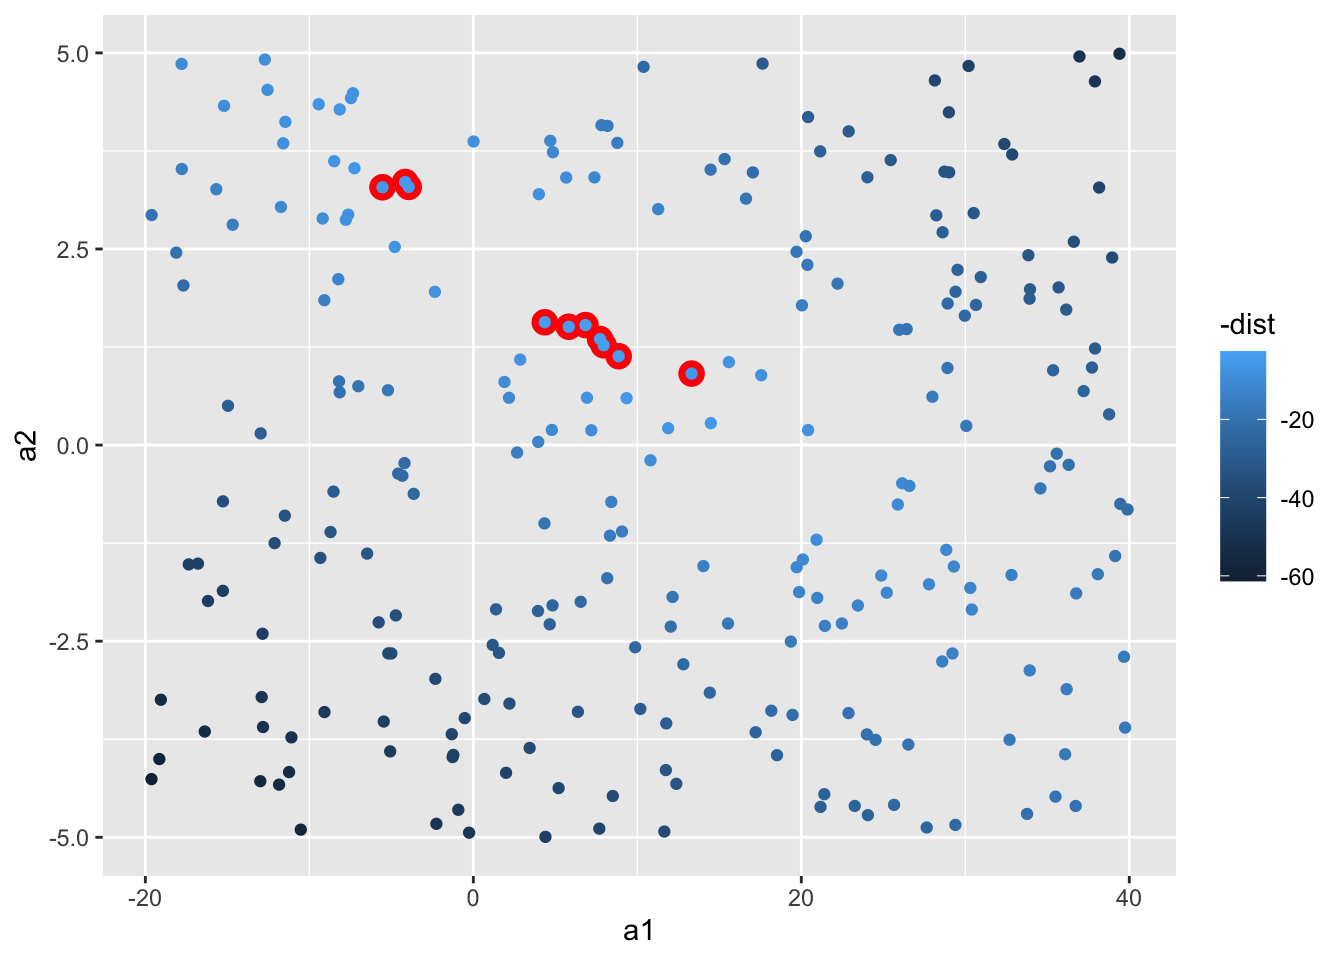
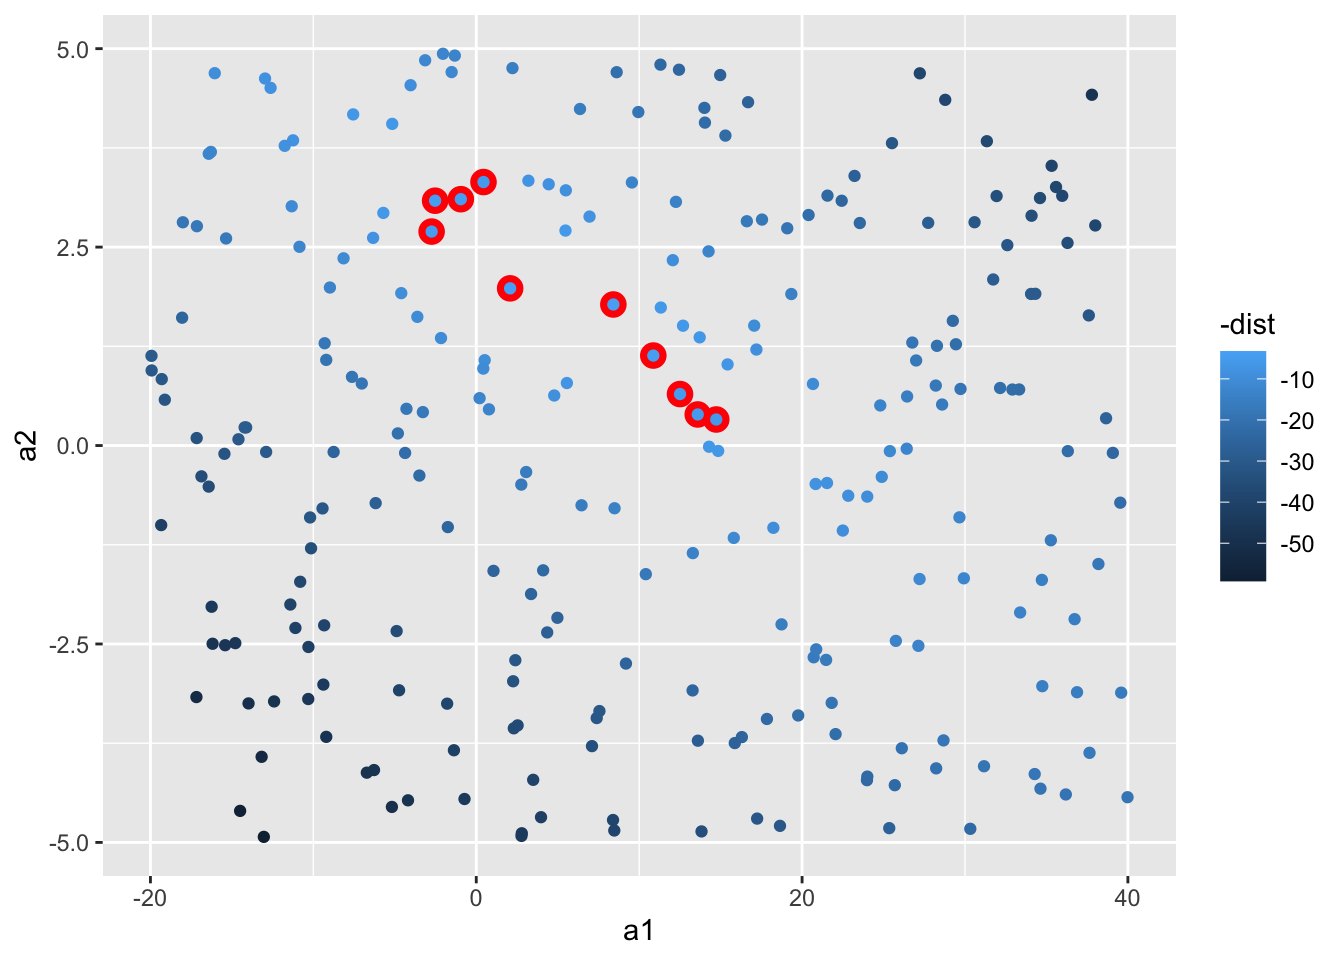
Fix corrupted model-building.qmd and re-render website
- Restore model-building.qmd from git history
- Successfully render all files including Session 4 redesign
- Website ready for GitHub Pages deployment

diff --git a/docs/index.html b/docs/index.html
@@ -207,14 +207,9 @@ ul.task-list li input[type="checkbox"] {
 <section id="schedule" class="level2">
 <h2 data-anchor-id="schedule">Schedule</h2>
 <div class="cell">
-<div class="cell-output cell-output-stdout">
-<pre><code>
-The downloaded binary packages are in
-    /var/folders/gy/v0zyw2jj1w30391yybd9qjv80000gp/T//RtmpeGUvse/downloaded_packages</code></pre>
-</div>
 <div class="cell-output-display">
-<div class="reactable html-widget html-fill-item" id="htmlwidget-539978b3662e2ace8b5c" style="width:auto;height:auto;"></div>
-<script type="application/json" data-for="htmlwidget-539978b3662e2ace8b5c">{"x":{"tag":{"name":"Reactable","attribs":{"data":{"Session":["R Basics","Functions and Data Wrangling","Data Visualization","Introduction to Models","Bulk RNA-seq","scRNA-seq Part 1","scRNA-seq Part 2","Final Project Presentations"],"Date":["2-Sep","4-Sep","9-Sep","11-Sep","3-Oct","10-Oct","17-Oct","21-Nov"],"Time":["9:00am - 11:00am","9:00am - 11:00am","9:00am - 11:00am","9:00am - 11:00am","10:30am - 12:30pm","10:30am - 12:30pm","10:30am - 12:30pm","10:30am - 1:00pm"]},"columns":[{"id":"Session","name":"Session","type":"character"},{"id":"Date","name":"Date","type":"character"},{"id":"Time","name":"Time","type":"character"}],"sortable":false,"theme":{"color":"#212529","backgroundColor":"#ffffff","borderColor":"#ffffff","borderWidth":"1px","stripedColor":"#ecf0f1","highlightColor":"#ecf0f1","cellPadding":6,"tableStyle":{"fontSize":14},"headerStyle":{"borderWidth":"2px","backgroundColor":"#2c3e50","color":"#ffffff","transitionDuration":"0.5s","&:hover[aria-sort]":{"color":"#1cbc9c"},"&[aria-sort='ascending'], &[aria-sort='descending']":{"color":"#1cbc9c"},"fontSize":15},"groupHeaderStyle":{"&:not(:empty)":{"color":"#212529","fontSize":15},"&:hover":{"fontWeight":"bold","transitionDuration":"1s","transitionTimingFunction":"ease-out","color":"#1cbc9c"}},"rowSelectedStyle":{"backgroundColor":"#2c3e50","color":"#ffffff"},"inputStyle":{"backgroundColor":"#ffffff","color":"#212529"},"searchInputStyle":{"backgroundColor":"#ffffff","color":"#212529","&:focus":{"color":"#212529"}},"selectStyle":{"backgroundColor":"#18bc9c","color":"#ffffff","borderColor":"#ffffff","outlineColor":"#ffffff","&:hover":{"backgroundColor":"#0f7864"}},"pageButtonStyle":{"backgroundColor":"#18bc9c","color":"#ffffff","&:hover":{"backgroundColor":"#0f7864"}},"pageButtonHoverStyle":{"backgroundColor":"#0f7864","color":"#ffffff"},"pageButtonActiveStyle":{"backgroundColor":"#0f7864","color":"#ffffff"},"pageButtonCurrentStyle":{"backgroundColor":"#0f7864","color":"#ffffff"}},"dataKey":"c8d81d99faa17f0744d58853d8d4c76b"},"children":[]},"class":"reactR_markup"},"evals":[],"jsHooks":[]}</script>
+<div class="reactable html-widget html-fill-item" id="htmlwidget-a0394c52ce09a2b722f2" style="width:auto;height:auto;"></div>
+<script type="application/json" data-for="htmlwidget-a0394c52ce09a2b722f2">{"x":{"tag":{"name":"Reactable","attribs":{"data":{"Session":["R Basics","Functions and Data Wrangling","Data Visualization","Introduction to Models","Bulk RNA-seq","scRNA-seq Part 1","scRNA-seq Part 2","Final Project Presentations"],"Date":["2-Sep","4-Sep","9-Sep","11-Sep","3-Oct","10-Oct","17-Oct","21-Nov"],"Time":["9:00am - 11:00am","9:00am - 11:00am","9:00am - 11:00am","9:00am - 11:00am","10:30am - 12:30pm","10:30am - 12:30pm","10:30am - 12:30pm","10:30am - 1:00pm"]},"columns":[{"id":"Session","name":"Session","type":"character"},{"id":"Date","name":"Date","type":"character"},{"id":"Time","name":"Time","type":"character"}],"sortable":false,"theme":{"color":"#212529","backgroundColor":"#ffffff","borderColor":"#ffffff","borderWidth":"1px","stripedColor":"#ecf0f1","highlightColor":"#ecf0f1","cellPadding":6,"tableStyle":{"fontSize":14},"headerStyle":{"borderWidth":"2px","backgroundColor":"#2c3e50","color":"#ffffff","transitionDuration":"0.5s","&:hover[aria-sort]":{"color":"#1cbc9c"},"&[aria-sort='ascending'], &[aria-sort='descending']":{"color":"#1cbc9c"},"fontSize":15},"groupHeaderStyle":{"&:not(:empty)":{"color":"#212529","fontSize":15},"&:hover":{"fontWeight":"bold","transitionDuration":"1s","transitionTimingFunction":"ease-out","color":"#1cbc9c"}},"rowSelectedStyle":{"backgroundColor":"#2c3e50","color":"#ffffff"},"inputStyle":{"backgroundColor":"#ffffff","color":"#212529"},"searchInputStyle":{"backgroundColor":"#ffffff","color":"#212529","&:focus":{"color":"#212529"}},"selectStyle":{"backgroundColor":"#18bc9c","color":"#ffffff","borderColor":"#ffffff","outlineColor":"#ffffff","&:hover":{"backgroundColor":"#0f7864"}},"pageButtonStyle":{"backgroundColor":"#18bc9c","color":"#ffffff","&:hover":{"backgroundColor":"#0f7864"}},"pageButtonHoverStyle":{"backgroundColor":"#0f7864","color":"#ffffff"},"pageButtonActiveStyle":{"backgroundColor":"#0f7864","color":"#ffffff"},"pageButtonCurrentStyle":{"backgroundColor":"#0f7864","color":"#ffffff"}},"dataKey":"c8d81d99faa17f0744d58853d8d4c76b"},"children":[]},"class":"reactR_markup"},"evals":[],"jsHooks":[]}</script>
 </div>
 </div>
 

diff --git a/docs/session-materials/session1/other-data-types.html b/docs/session-materials/session1/other-data-types.html
@@ -440,16 +440,16 @@ Levels: high low medium</code></pre>
 <div class="sourceCode cell-code" id="cb10"><pre class="sourceCode r code-with-copy"><code class="sourceCode r"><span id="cb10-1"><a href="#cb10-1" aria-hidden="true" tabindex="-1"></a>df</span></code><button title="Copy to Clipboard" class="code-copy-button"><i class="bi"></i></button></pre></div>
 <div class="cell-output cell-output-stdout">
 <pre><code>   gene_names expression numeric_expression
-1         Asl       high          2866.1309
-2        Apod        low          -588.4461
-3     Cyp2d22        low          1046.1175
-4        Klk6     medium          3312.0732
-5       Fcrls       high          4779.3705
-6      Slc2a4     medium          2715.4699
-7        Exd2     medium          -242.7500
-8        Gjc2        low          2624.9758
-9        Plp1        low          2370.6582
-10       Gnb4        low          1088.4317</code></pre>
+1         Asl       high           4228.969
+2        Apod        low           -791.521
+3     Cyp2d22        low            498.240
+4        Klk6     medium           3587.532
+5       Fcrls       high           1839.723
+6      Slc2a4     medium           1492.037
+7        Exd2     medium           2232.815
+8        Gjc2        low           1226.291
+9        Plp1        low           1443.809
+10       Gnb4        low           1954.397</code></pre>
 </div>
 </div>
 </section>
@@ -473,16 +473,16 @@ Levels: low medium high
 
 [[2]]
    gene_names expression numeric_expression
-1         Asl       high          2866.1309
-2        Apod        low          -588.4461
-3     Cyp2d22        low          1046.1175
-4        Klk6     medium          3312.0732
-5       Fcrls       high          4779.3705
-6      Slc2a4     medium          2715.4699
-7        Exd2     medium          -242.7500
-8        Gjc2        low          2624.9758
-9        Plp1        low          2370.6582
-10       Gnb4        low          1088.4317
+1         Asl       high           4228.969
+2        Apod        low           -791.521
+3     Cyp2d22        low            498.240
+4        Klk6     medium           3587.532
+5       Fcrls       high           1839.723
+6      Slc2a4     medium           1492.037
+7        Exd2     medium           2232.815
+8        Gjc2        low           1226.291
+9        Plp1        low           1443.809
+10       Gnb4        low           1954.397
 
 [[3]]
 [1] 102</code></pre>

diff --git a/docs/session-materials/session4/A-simple-model.html b/docs/session-materials/session4/A-simple-model.html
@@ -461,18 +461,18 @@ pre > code.sourceCode > span > a:first-child::before { text-decoration: underlin
 <span id="cb9-8"><a href="#cb9-8" aria-hidden="true" tabindex="-1"></a>models</span></code><button title="Copy to Clipboard" class="code-copy-button"><i class="bi"></i></button></pre></div>
 <div class="cell-output cell-output-stdout">
 <pre><code># A tibble: 250 × 3
-       a1     a2  dist
-    &lt;dbl&gt;  &lt;dbl&gt; &lt;dbl&gt;
- 1  27.6  -4.88  24.8 
- 2  10.4   4.82  22.9 
- 3   4.40 -4.99  43.6 
- 4 -16.8  -1.51  41.9 
- 5  30.3  -1.82  12.3 
- 6  25.2  -1.88  11.5 
- 7  13.3   0.911  4.82
- 8 -11.2  -4.17  52.8 
- 9  -1.22 -3.95  42.2 
-10  28.2   2.93  29.0 
+       a1      a2  dist
+    &lt;dbl&gt;   &lt;dbl&gt; &lt;dbl&gt;
+ 1  25.4  -4.82   25.9 
+ 2 -14.6   0.0788 30.3 
+ 3  20.8  -0.484   8.04
+ 4  33.4  -2.10   13.7 
+ 5  13.3  -1.36   13.9 
+ 6  31.7   2.09   27.8 
+ 7 -14.8  -2.49   45.9 
+ 8   2.22  4.76   15.2 
+ 9 -16.9  -0.388  35.3 
+10  27.2   4.69   38.3 
 # ℹ 240 more rows</code></pre>
 </div>
 </div>
